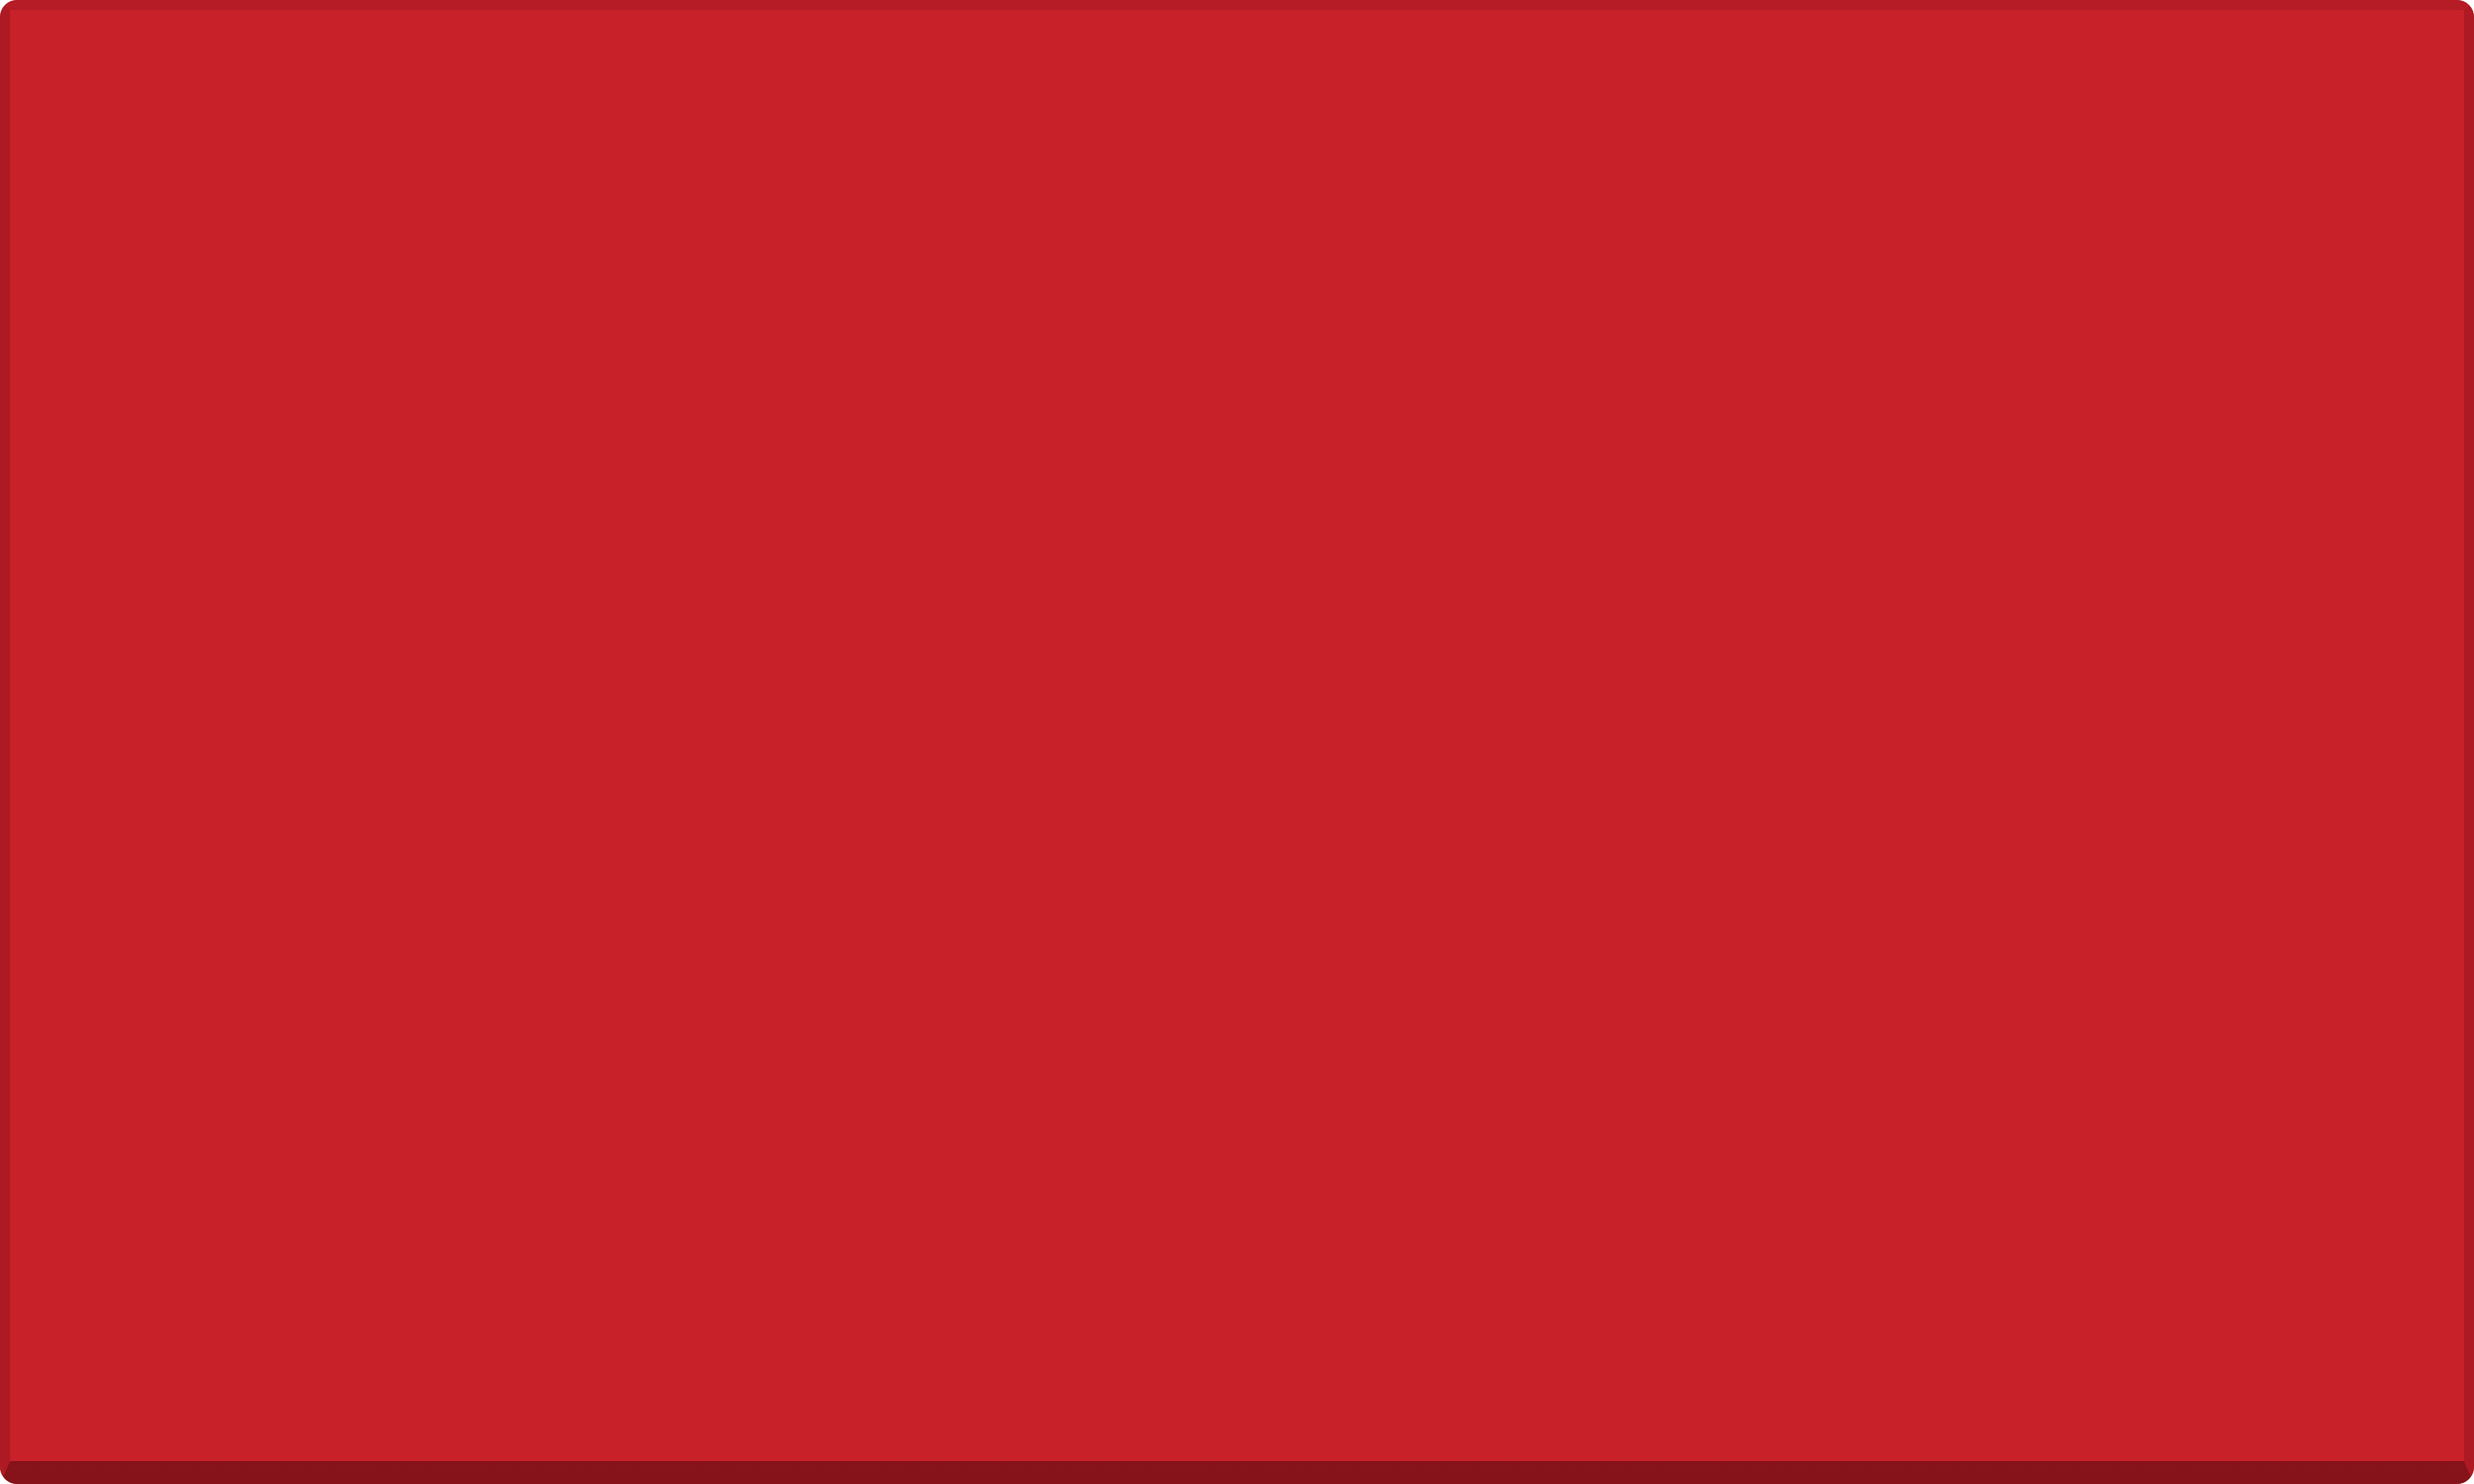
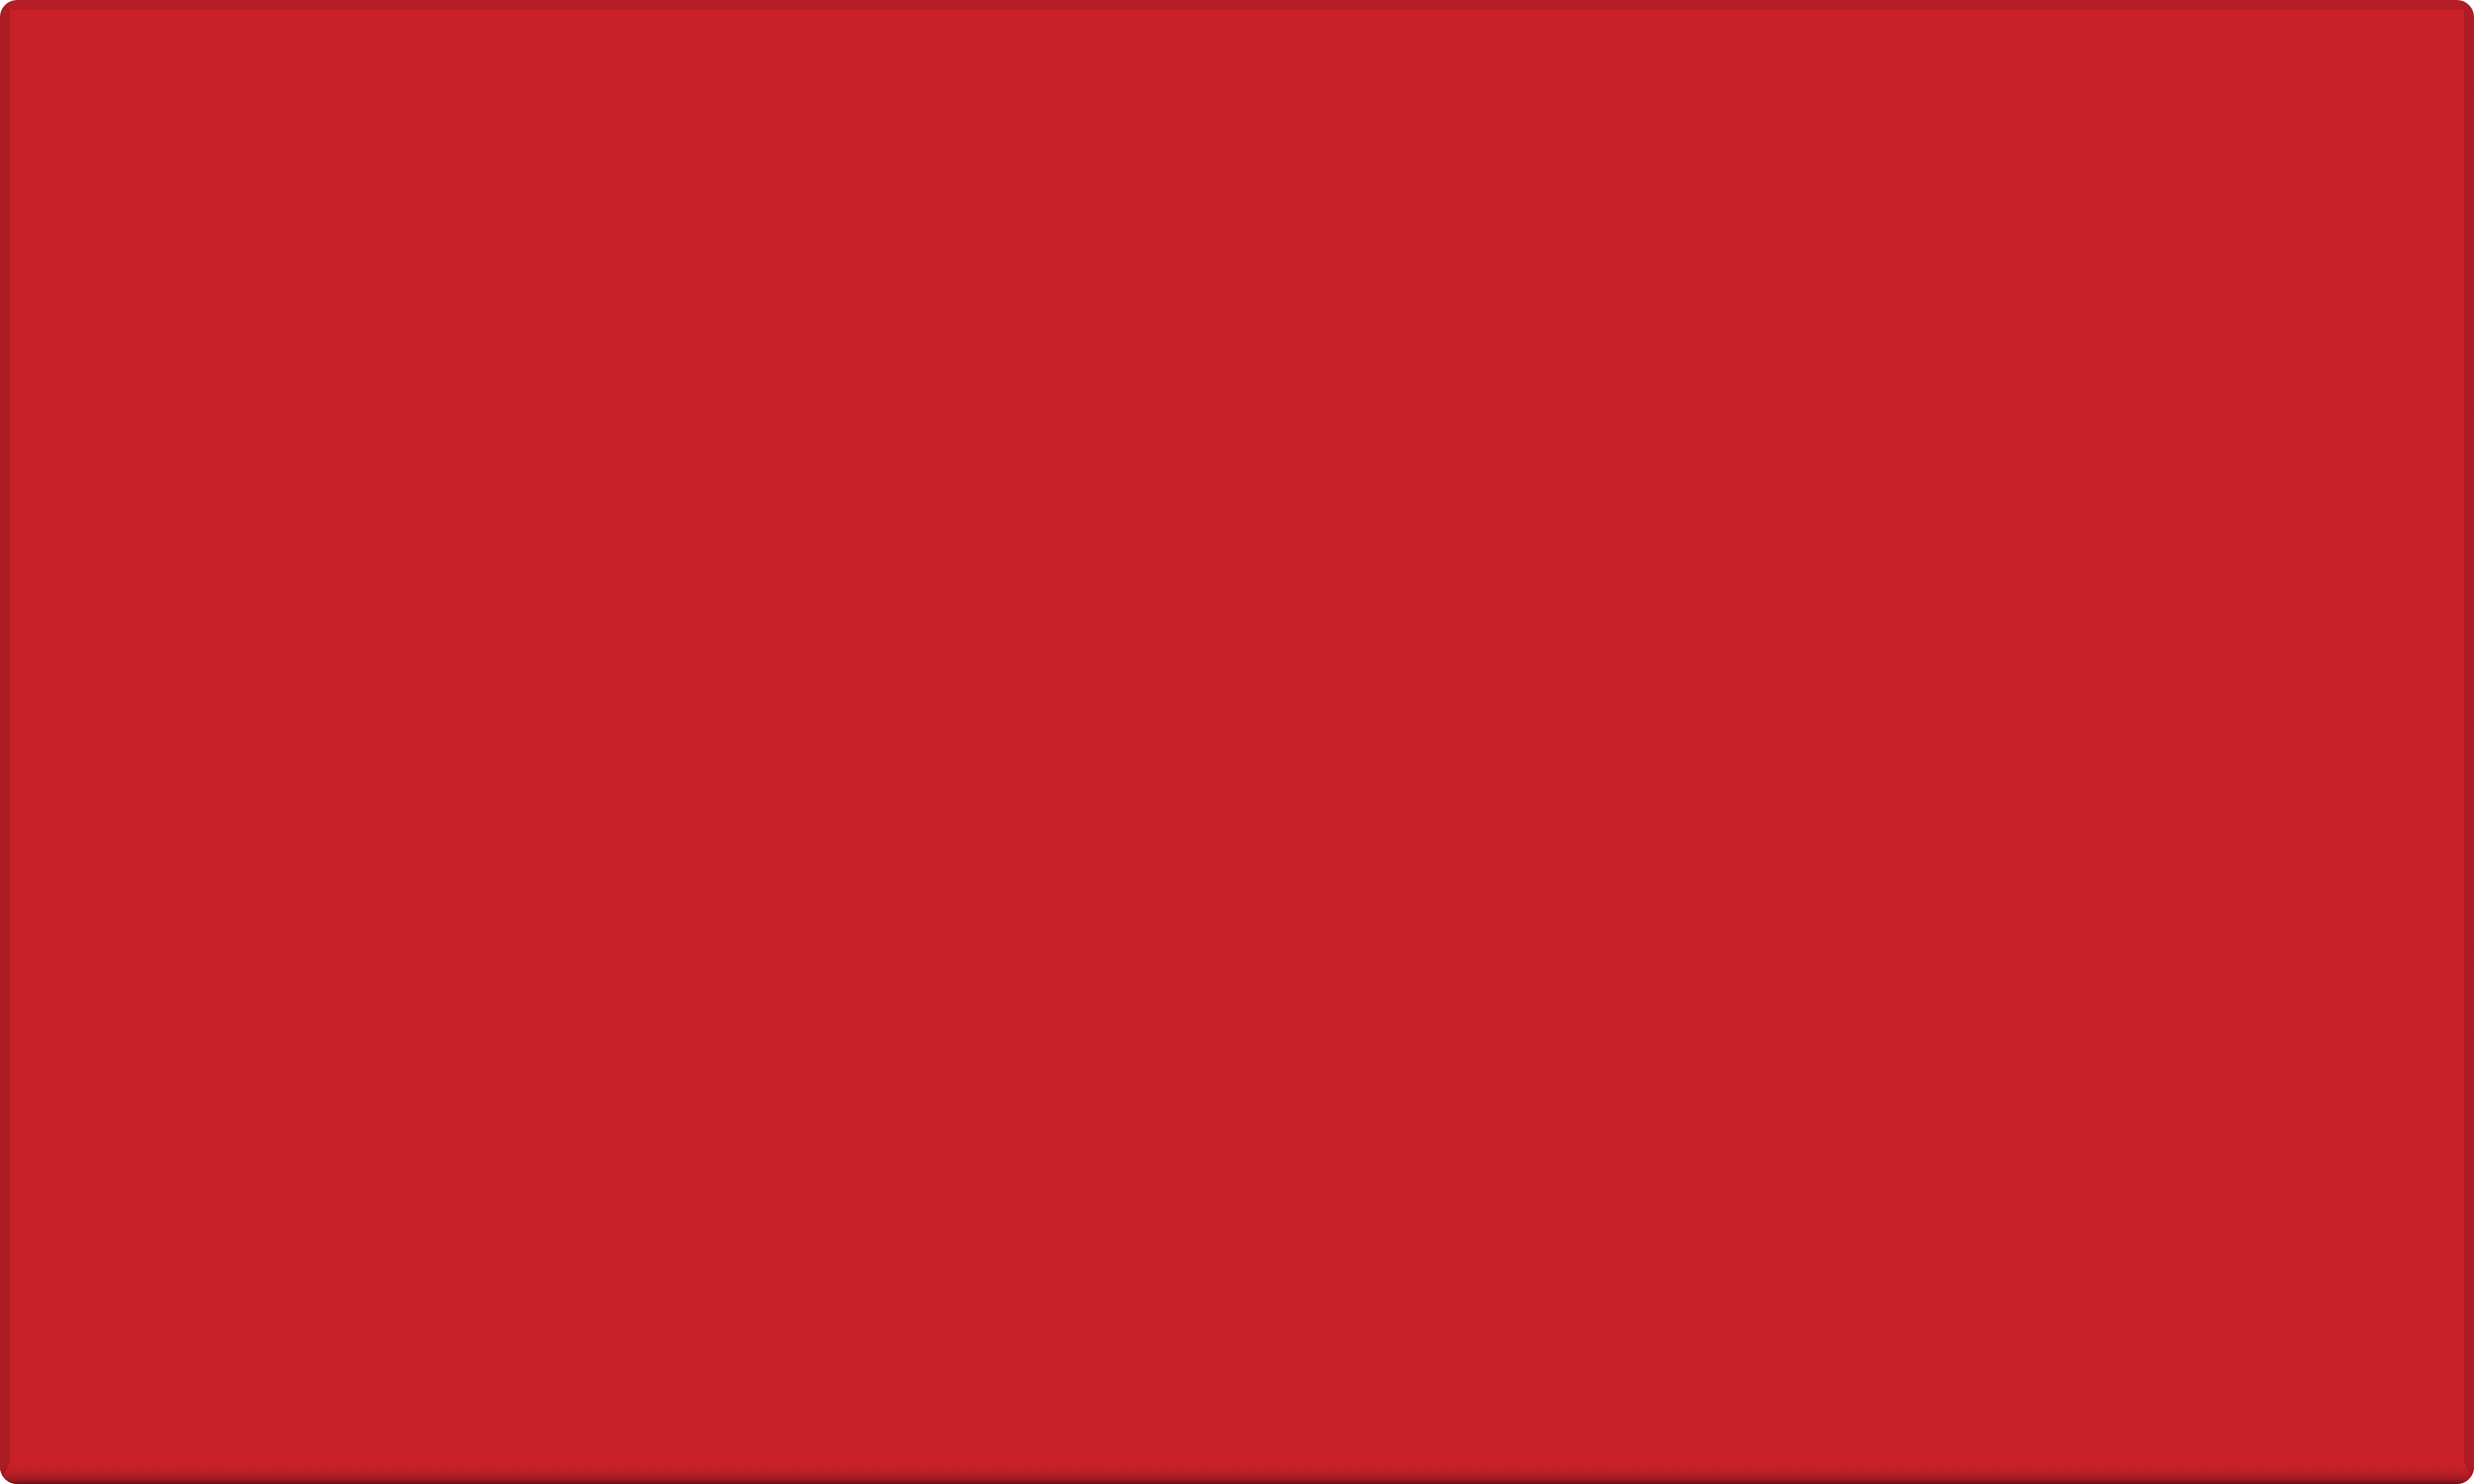
0.1.4: knob at its original size, wordmark 15 % smaller, rounded bottom edge
The bottom edge of the body is rounded over (shaded by its slope under light from straight above) across the full
width; the top and side bevels are shades over it, so they run into it at the corners.

Claude-Session: https://claude.ai/code/session_014HvohCNRUpwukZP1kK2uMv

Changed region(s): [[0.0, 0.9585, 1.0, 1.0]]

diff --git a/tools/skin/skin_source.html b/tools/skin/skin_source.html
@@ -60,16 +60,17 @@ const text = (t, x, y, extra = '', cls = 'lbl ctr') => el('text', `left:${x}px;t
 const tag = (t, x, y, extra = '', cls = 'tag') => el('tagboxes text', `left:${x}px;top:${y}px;${extra}`, t, cls);
 
 // 02 body
-// body with a bevelled edge: 7 dp at the top and sides, 16 dp at the bottom. Light from straight above: the bevel
-// faces turn away from it, so they are a little darker than the top, the steeper bottom one most.
+// body: bevelled top and sides (7 dp), the bottom edge rounded over (16 dp). Light from straight above: the bevels
+// turn away from it a little; the rounded edge darkens as it curves down (brightness ~ the cosine of its slope).
 const BEV = { side: 7, top: 7, bottom: 16 }, BW = 1725, BH = 1035;
 { const facet = (pts, bg) => `<div style="position:absolute;inset:0;clip-path:polygon(${pts});background:${bg}"></div>`;
   const s = BEV.side, t = BEV.top, b = BEV.bottom;
+  // the rounded lip first, then the bevels as shades over it (so they run into the lip at the corners)
   el('body', `left:0;top:0;width:${BW}px;height:${BH}px;border-radius:12px;overflow:hidden;background:var(--red)`,
-    facet(`0 0,${BW}px 0,${BW - s}px ${t}px,${s}px ${t}px`, 'linear-gradient(to bottom,#b51c25,#bf1f28)') +
-    facet(`0 0,${s}px ${t}px,${s}px ${BH - b}px,0 ${BH}px`, 'linear-gradient(to right,#ad1a23,#b91e27)') +
-    facet(`${BW}px 0,${BW}px ${BH}px,${BW - s}px ${BH - b}px,${BW - s}px ${t}px`, 'linear-gradient(to left,#ad1a23,#b91e27)') +
-    facet(`${s}px ${BH - b}px,${BW - s}px ${BH - b}px,${BW}px ${BH}px,0 ${BH}px`, 'linear-gradient(to bottom,#a3171f,#86121a)')); }
+    `<div style="position:absolute;left:0;right:0;bottom:0;height:${b}px;background:linear-gradient(to bottom,rgb(201,33,42) 0%,rgb(200,33,42) 15%,rgb(196,32,41) 30%,rgb(189,31,39) 45%,rgb(178,29,37) 60%,rgb(165,27,35) 72%,rgb(151,25,32) 82%,rgb(135,22,28) 90%,rgb(117,19,24) 96%,rgb(84,14,18) 100%)"></div>` +
+    facet(`0 0,${BW}px 0,${BW - s}px ${t}px,${s}px ${t}px`, 'linear-gradient(to bottom,rgba(0,0,0,.10),rgba(0,0,0,.05))') +
+    facet(`0 0,${s}px ${t}px,${s}px ${BH - b}px,0 ${BH}px`, 'linear-gradient(to right,rgba(0,0,0,.14),rgba(0,0,0,.08))') +
+    facet(`${BW}px 0,${BW}px ${BH}px,${BW - s}px ${BH - b}px,${BW - s}px ${t}px`, 'linear-gradient(to left,rgba(0,0,0,.14),rgba(0,0,0,.08))')); }
 // 03 panels (black print)
 el('panels', `left:100px;top:175px;width:1515px;height:520px;border-radius:42px;background:var(--panel)`);
 el('panels', `left:445px;top:712px;width:520px;height:236px;border-radius:34px;background:var(--panel)`);
@@ -123,7 +124,7 @@ text('REPEAT TEMPO', 557, 834);
 text('TRIG', 1398, 724);
 text('TRIG LEVEL', 1398, 832);
 // 09 wordmark (placeholder lettering)
-el('wordmark', `right:85px;top:880px;color:#fff;font-weight:800;font-size:88px;letter-spacing:-.01em;line-height:1;font-family:'Liberation Sans',Arial,sans-serif`, 'nd2 Emu');
+el('wordmark', `right:85px;top:893px;color:#fff;font-weight:800;font-size:75px;letter-spacing:-.01em;line-height:1;font-family:'Liberation Sans',Arial,sans-serif`, 'nd2 Emu');
 
 // ---- controls (sprite elements in the skin; drawn here for the preview / GIMP reference layer)
 const C = (o) => controls.push(o);
@@ -152,8 +153,8 @@ const led = (code, x, y, green) => {
 parX.forEach((x,i) => { led(LED_UP[i], x, 425); led(LED_LO[i], x, 512); });
 chX.forEach((x,i) => { led(LED_PK[i], x, 273, false); led(LED_TG[i], x, 312, true); });
 led(LED_SOLO, 207, 632);
-// master knob: 128 frames, 240 px cells at 2x (the knob is 172 px of its cell); shown 7.5 % larger than first drawn
-{ const c = 141, f = Math.round(PREVIEW.master * 127), sc = c / 240;
+// master knob: 128 frames, 240 px cells at 2x (the knob is 172 px of its cell -> 131 dp element)
+{ const c = 131, f = Math.round(PREVIEW.master * 127), sc = c / 240;
   C({ type: 'knob', id: 'master', x: 153 - c/2, y: 365 - c/2, w: c, h: c, frames: 128 });
   el('controls', `left:${153 - c/2}px;top:${365 - c/2}px;width:${c}px;height:${c}px;background:url(../../skins/default/nd2-default/ND2MasterKnob.png) ${-(f % 14) * c}px ${-Math.floor(f / 14) * c}px/${3360 * sc}px ${2400 * sc}px`); }
 

diff --git a/README.md b/README.md
@@ -17,9 +17,9 @@ below. Earlier versions are on the [releases page](https://github.com/DustyHamme
 ### 0.1.4
 
 - Panel: the strip of jacks above the panel and the output and MIDI labels are gone; CH1 to CH6 are centred.
-- The body has a bevelled edge, and the buttons come up through small cutouts in the panel.
+- The body has bevelled sides and a rounded bottom edge, and the buttons come up through small cutouts in the panel.
 - The buttons and the MASTER LEVEL knob have the same sandblasted finish as the value encoder, drawn at twice the
-  resolution; the knob is a little larger. The wordmark reads "nd2 Emu".
+  resolution. The wordmark reads "nd2 Emu".
 - The standalone app has its own icon.
 
 ### 0.1.3
